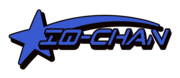
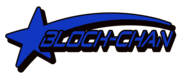
rebrand to BlockChan, gateway fallback, no direct RPC reads, wallet fix, Zo's overlay merge

diff --git a/src/lib/board.ts b/src/lib/board.ts
@@ -1,7 +1,7 @@
-import { Connection, PublicKey } from "@solana/web3.js";
+import { PublicKey } from "@solana/web3.js";
 import iqlabs from "iqlabs-sdk";
 import { FEED_SEED_PREFIX, THREADS_PER_PAGE } from "./constants";
-import { fetchTableSlice, fetchAllTableRows } from "./gateway";
+import { fetchAllTableRows } from "./gateway";
 import type { Post, Reply } from "./types";
 
 const PROGRAM_ID = iqlabs.contract.PROGRAM_ID;
@@ -28,52 +28,35 @@ export function getFeedPda(dbRootKey: PublicKey, boardId: string): PublicKey {
     )[0];
 }
 
-const FEED_BATCH_SIZE = 50;
-
 export async function fetchFeedThreads(
-    connection: Connection,
     feedPda: PublicKey,
     before?: string,
 ): Promise<{ threads: ThreadEntry[]; nextCursor?: string }> {
     const threads = new Map<string, ThreadEntry>();
-    let cursor = before;
 
-    while (threads.size < THREADS_PER_PAGE) {
-        const sigs = await connection.getSignaturesForAddress(feedPda, {
-            limit: FEED_BATCH_SIZE,
-            ...(cursor ? { before: cursor } : {}),
-        });
+    // Use gateway instead of direct RPC
+    const feedRows = await fetchAllTableRows(feedPda.toBase58(), THREADS_PER_PAGE * 3);
 
-        if (sigs.length === 0) break;
+    for (const row of feedRows) {
+        const post = row as Post;
+        if (!post.threadPda) continue;
 
-        const sigStrings = sigs.map((s) => s.signature);
-        const rows = await fetchTableSlice(feedPda.toBase58(), sigStrings);
+        const time = post.time ?? 0;
+        const existing = threads.get(post.threadPda);
+        const isOp = !!post.threadSeed;
 
-        for (const row of rows) {
-            const post = row as Post;
-            if (!post.threadPda) continue;
-
-            const time = post.time ?? 0;
-            const existing = threads.get(post.threadPda);
-            const isOp = !!post.threadSeed;
-
-            if (existing) {
-                if (isOp) existing.opData = post;
-                existing.lastActivityTime = Math.max(existing.lastActivityTime, time);
-            } else {
-                threads.set(post.threadPda, {
-                    threadPda: post.threadPda,
-                    opData: isOp ? post : null,
-                    lastActivityTime: time,
-                    replyCount: 0,
-                    lastReplies: [],
-                });
-            }
-
-            if (threads.size >= THREADS_PER_PAGE) break;
+        if (existing) {
+            if (isOp) existing.opData = post;
+            existing.lastActivityTime = Math.max(existing.lastActivityTime, time);
+        } else {
+            threads.set(post.threadPda, {
+                threadPda: post.threadPda,
+                opData: isOp ? post : null,
+                lastActivityTime: time,
+                replyCount: 0,
+                lastReplies: [],
+            });
         }
-
-        cursor = sigStrings[sigStrings.length - 1];
     }
 
     // Fetch OP + reply previews for each thread
@@ -96,5 +79,5 @@ export async function fetchFeedThreads(
         .filter((t) => t.opData !== null)
         .sort((a, b) => b.lastActivityTime - a.lastActivityTime);
 
-    return { threads: sorted, nextCursor: cursor };
+    return { threads: sorted, nextCursor: undefined };
 }

diff --git a/src/lib/gateway.ts b/src/lib/gateway.ts
@@ -1,20 +1,33 @@
-import { GATEWAY_URL } from "./config";
+import { getGatewayUrl, GATEWAY_FALLBACK } from "./config";
 import type { Post } from "./types";
 
 const isDev = process.env.NODE_ENV === "development";
 
 export type Row = Post & Record<string, unknown>;
 
+/** Fetch with fallback - tries primary gateway, falls back to gateway.iqlabs.dev on failure. */
+async function gwFetch(path: string): Promise<Response> {
+    const primary = getGatewayUrl();
+    try {
+        const res = await fetch(`${primary}${path}`, { cache: "no-store" });
+        if (res.ok || res.status === 404) return res;
+    } catch {}
+    if (primary !== GATEWAY_FALLBACK) {
+        return fetch(`${GATEWAY_FALLBACK}${path}`, { cache: "no-store" });
+    }
+    throw new Error("gateway unreachable");
+}
+
 async function fetchTableRows(
     tablePda: string,
     limit = 50,
     before?: string,
 ): Promise<{ rows: Row[]; nextCursor?: string }> {
-    let url = `${GATEWAY_URL}/table/${tablePda}/rows?limit=${limit}`;
-    if (before) url += `&before=${before}`;
+    let path = `/table/${tablePda}/rows?limit=${limit}`;
+    if (before) path += `&before=${before}`;
 
     if (isDev) console.log("[gateway] rows →", tablePda.slice(0, 8), limit);
-    const res = await fetch(url, { cache: "no-store" });
+    const res = await gwFetch(path);
     if (!res.ok) {
         if (res.status === 404) return { rows: [] };
         throw new Error(`fetchTableRows failed: ${res.status}`);
@@ -46,7 +59,7 @@ export async function fetchAllTableRows(
 /** Notify gateway about a new tx so it caches it and invalidates stale rows. */
 export async function notifyPost(tablePda: string, txSignature: string, row?: Record<string, unknown>): Promise<void> {
     try {
-        await fetch(`${GATEWAY_URL}/table/${tablePda}/notify`, {
+        await fetch(`${getGatewayUrl()}/table/${tablePda}/notify`, {
             method: "POST",
             headers: { "Content-Type": "application/json" },
             body: JSON.stringify({ txSignature, row }),
@@ -63,9 +76,9 @@ export async function fetchTableSlice(
     if (sigs.length === 0) return [];
     if (sigs.length > 50) throw new Error("fetchTableSlice: max 50 sigs");
 
-    const url = `${GATEWAY_URL}/table/${tablePda}/slice?sigs=${sigs.join(",")}`;
+    const path = `/table/${tablePda}/slice?sigs=${sigs.join(",")}`;
     if (isDev) console.log("[gateway] slice →", tablePda.slice(0, 8), sigs.length, "sigs");
-    const res = await fetch(url, { cache: "no-store" });
+    const res = await gwFetch(path);
     if (!res.ok) throw new Error(`fetchTableSlice failed: ${res.status}`);
     const data = await res.json();
     const rows = data.rows ?? [];

diff --git a/src/hooks/use-threads.ts b/src/hooks/use-threads.ts
@@ -1,61 +1,37 @@
 "use client";
 
 import { useState, useEffect, useCallback } from "react";
-import { useConnection } from "@solana/wallet-adapter-react";
 import { DB_ROOT_KEY } from "../lib/constants";
 import { getFeedPda, fetchFeedThreads, ThreadEntry } from "../lib/board";
 
 export function useThreads(boardId: string) {
-    const { connection } = useConnection();
     const [threads, setThreads] = useState<ThreadEntry[]>([]);
     const [loading, setLoading] = useState(true);
     const [error, setError] = useState<Error | null>(null);
-    const [cursor, setCursor] = useState<string | undefined>();
-    const [hasMore, setHasMore] = useState(true);
+    const [hasMore, setHasMore] = useState(false);
 
-    const load = useCallback(async (before?: string) => {
+    const load = useCallback(async () => {
         setLoading(true);
         setError(null);
 
         try {
             const feedPda = getFeedPda(DB_ROOT_KEY, boardId);
-            const result = await fetchFeedThreads(connection, feedPda, before);
-
-            if (before) {
-                // Append to existing (next page)
-                setThreads((prev) => {
-                    const existing = new Set(prev.map((t) => t.threadPda));
-                    const newThreads = result.threads.filter((t) => !existing.has(t.threadPda));
-                    return [...prev, ...newThreads];
-                });
-            } else {
-                setThreads(result.threads);
-            }
-
-            setCursor(result.nextCursor);
-            setHasMore(result.threads.length > 0 && !!result.nextCursor);
+            const result = await fetchFeedThreads(feedPda);
+            setThreads(result.threads);
         } catch (e) {
             setError(e instanceof Error ? e : new Error(String(e)));
         } finally {
             setLoading(false);
         }
-    }, [boardId, connection]);
+    }, [boardId]);
 
     useEffect(() => {
         load();
     }, [load]);
 
-    const loadMore = useCallback(() => {
-        if (!loading && hasMore && cursor) {
-            load(cursor);
-        }
-    }, [loading, hasMore, cursor, load]);
-
     const refresh = useCallback(() => {
-        setCursor(undefined);
-        setHasMore(true);
         load();
     }, [load]);
 
-    return { threads, loading, error, hasMore, loadMore, refresh };
+    return { threads, loading, error, hasMore, loadMore: refresh, refresh };
 }

diff --git a/src/components/pages/home-page.tsx b/src/components/pages/home-page.tsx
@@ -47,18 +47,18 @@ export default function HomePage() {
         <div className="fp-wrap">
             <div className="fp-logo">
                 <HashLink href="/" title="Home">
-                    <img alt="iqchan" src="/iqchan-logo.png" width="300" height="120" />
+                    <img alt="BlockChan" src="/blockchan.png" width="300" height="120" />
                 </HashLink>
             </div>
 
             <div className="box-outer" id="announce">
                 <div className="box-inner">
                     <div className="boxbar">
-                        <h2>What is iqchan?</h2>
+                        <h2>What is BlockChan?</h2>
                     </div>
                     <div className="boxcontent">
                         <p>
-                            iqchan is a simple on-chain bulletin board where anyone can post
+                            BlockChan is a simple on-chain bulletin board where anyone can post
                             comments and share images. There are boards dedicated to a variety
                             of topics, from business and finance to technology, anime, and
                             shitposting. Users do not need to register an account before

diff --git a/src/app/layout.tsx b/src/app/layout.tsx
@@ -6,8 +6,8 @@ import "./chan.css";
 
 export const metadata: Metadata = {
     title: {
-        default: "iqchan",
-        template: "%s | iqchan",
+        default: "BlockChan",
+        template: "%s | BlockChan",
     },
     description: "On-chain imageboard on Solana",
     icons: {
@@ -15,14 +15,14 @@ export const metadata: Metadata = {
         apple: "/apple-icon.png",
     },
     openGraph: {
-        title: "iqchan",
+        title: "BlockChan",
         description: "On-chain imageboard on Solana",
         type: "website",
         images: ["/og-image.png"],
     },
     twitter: {
         card: "summary_large_image",
-        title: "iqchan",
+        title: "BlockChan",
         description: "On-chain imageboard on Solana",
         images: ["/og-image.png"],
     },

diff --git a/src/lib/config.ts b/src/lib/config.ts
@@ -1,5 +1,16 @@
 export const RPC_ENDPOINT =
     process.env.NEXT_PUBLIC_RPC_ENDPOINT ?? "https://api.mainnet-beta.solana.com";
 
-export const GATEWAY_URL =
-    process.env.NEXT_PUBLIC_GATEWAY_URL ?? "https://gateway.iqlabs.dev";
+const DEFAULT_GATEWAY = process.env.NEXT_PUBLIC_GATEWAY_URL ?? "https://gateway.iqlabs.dev";
+
+export const GATEWAY_FALLBACK = "https://gateway.iqlabs.dev";
+
+/** Gateway URL - user can override via localStorage "blockchan_gateway" */
+export function getGatewayUrl(): string {
+    if (typeof window !== "undefined") {
+        const custom = localStorage.getItem("blockchan_gateway");
+        if (custom) return custom;
+    }
+    return DEFAULT_GATEWAY;
+}
+

diff --git a/src/components/post-form.tsx b/src/components/post-form.tsx
@@ -178,7 +178,7 @@ export default function PostForm({
                     <tr className="rules">
                         <td colSpan={2}>
                             <ul>
-                                <li>Every {mode === "thread" ? "thread" : "reply"} is a Solana transaction (~{ESTIMATED_SOL_COST[mode]} SOL).</li>
+                                <li>Your {mode === "thread" ? "thread" : "reply"} is permanently stored on the Solana blockchain and cannot be deleted.</li>
                             </ul>
                         </td>
                     </tr>

diff --git a/src/hooks/use-post.ts b/src/hooks/use-post.ts
@@ -110,7 +110,7 @@ export function usePost() {
                 const sim = await connection.simulateTransaction(tx1);
                 if (sim.value.err) {
                     const logs = sim.value.logs ?? [];
-                    console.error("[iqchan] simulation logs:", logs);
+                    console.error("[blockchan] simulation logs:", logs);
                     const logsStr = logs.join("\n");
                     let msg: string;
                     if (logsStr.includes("insufficient") || logsStr.includes("lamports")) {

diff --git a/src/components/posting-overlay.tsx b/src/components/posting-overlay.tsx
@@ -75,7 +75,7 @@ export default function PostingOverlay({ statusText, step, totalSteps, isError, 
                         <img
                             src="/q_download.gif"
                             alt=""
-                            style={{ display: "block", width: "100%" }}
+                            style={{ display: "block", maxWidth: 150, margin: "0 auto" }}
                         />
                     </div>
                 )}

diff --git a/src/components/quick-reply.tsx b/src/components/quick-reply.tsx
@@ -180,7 +180,7 @@ export default function QuickReply({
                     />
                 </div>
                 <div style={{ marginBottom: 3, fontSize: 11, color: "#707070" }}>
-                    ~{ESTIMATED_SOL_COST.reply} SOL per reply
+                    Your reply is permanently stored on the blockchain and cannot be deleted.
                 </div>
                 <div style={{ marginBottom: 3 }}>
                     <input

diff --git a/src/components/wallet-button.tsx b/src/components/wallet-button.tsx
@@ -31,6 +31,8 @@ export default function WalletButton() {
         setError("");
         try {
             select(wallet.adapter.name);
+            // Wait for wallet adapter to process selection before connecting
+            await new Promise((r) => setTimeout(r, 100));
             await connect();
             setOpen(false);
         } catch (e) {

diff --git a/src/app/home.css b/src/app/home.css
@@ -1,4 +1,4 @@
-/* 4chan frontpage layout with iqchan colors */
+/* BlockChan frontpage layout */
 
 .fp-wrap {
     margin: auto;
